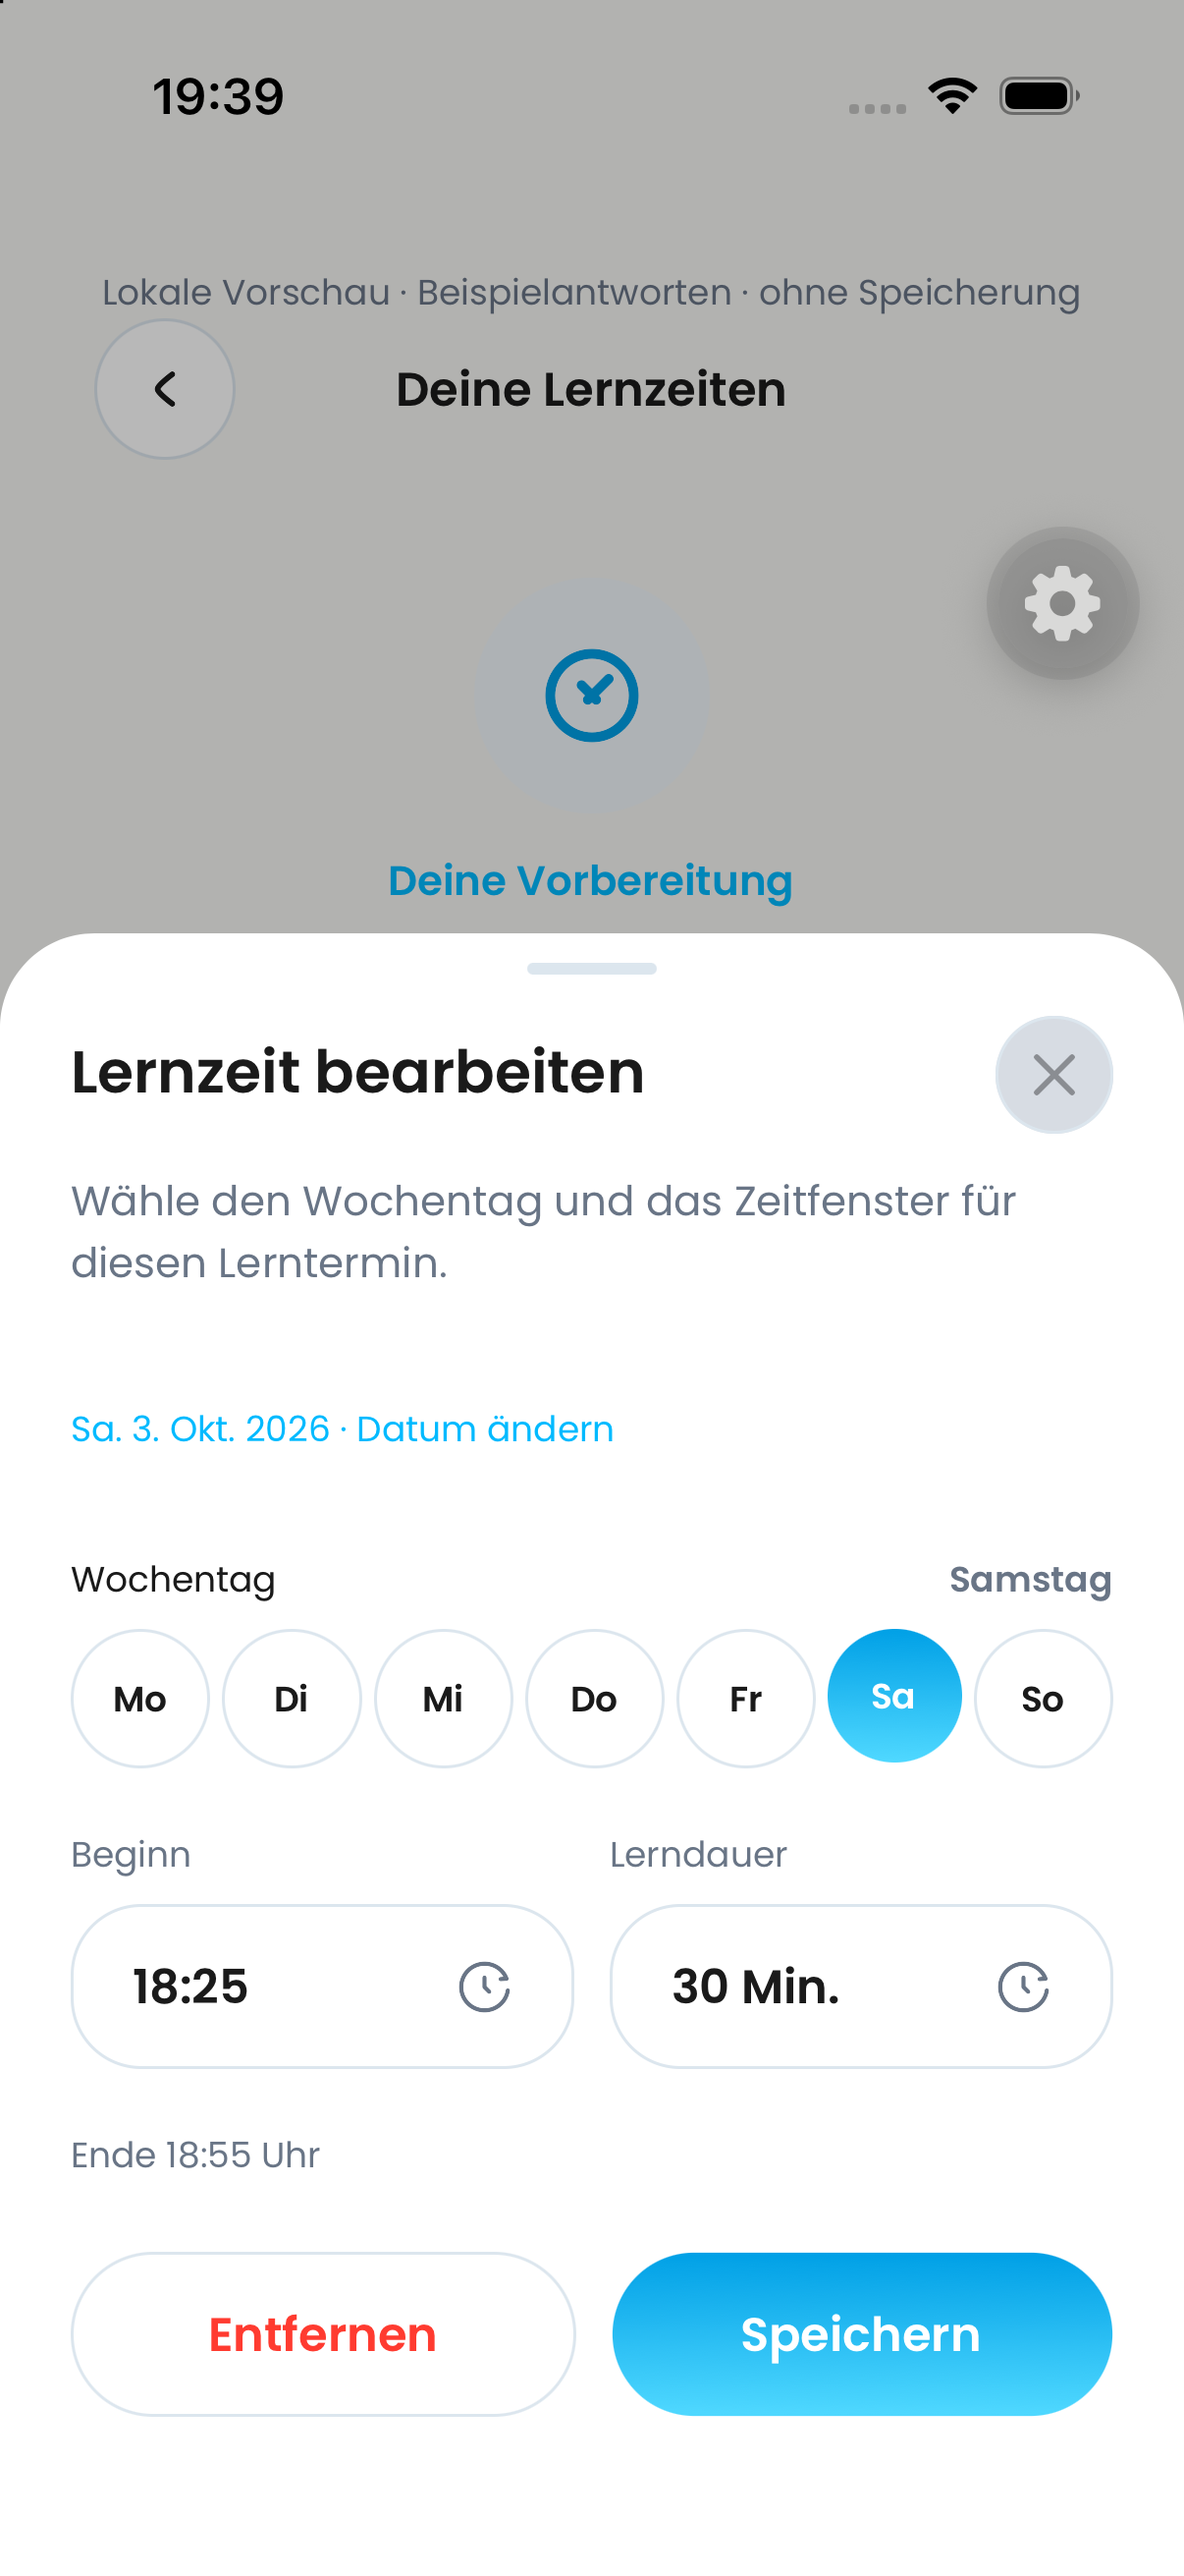
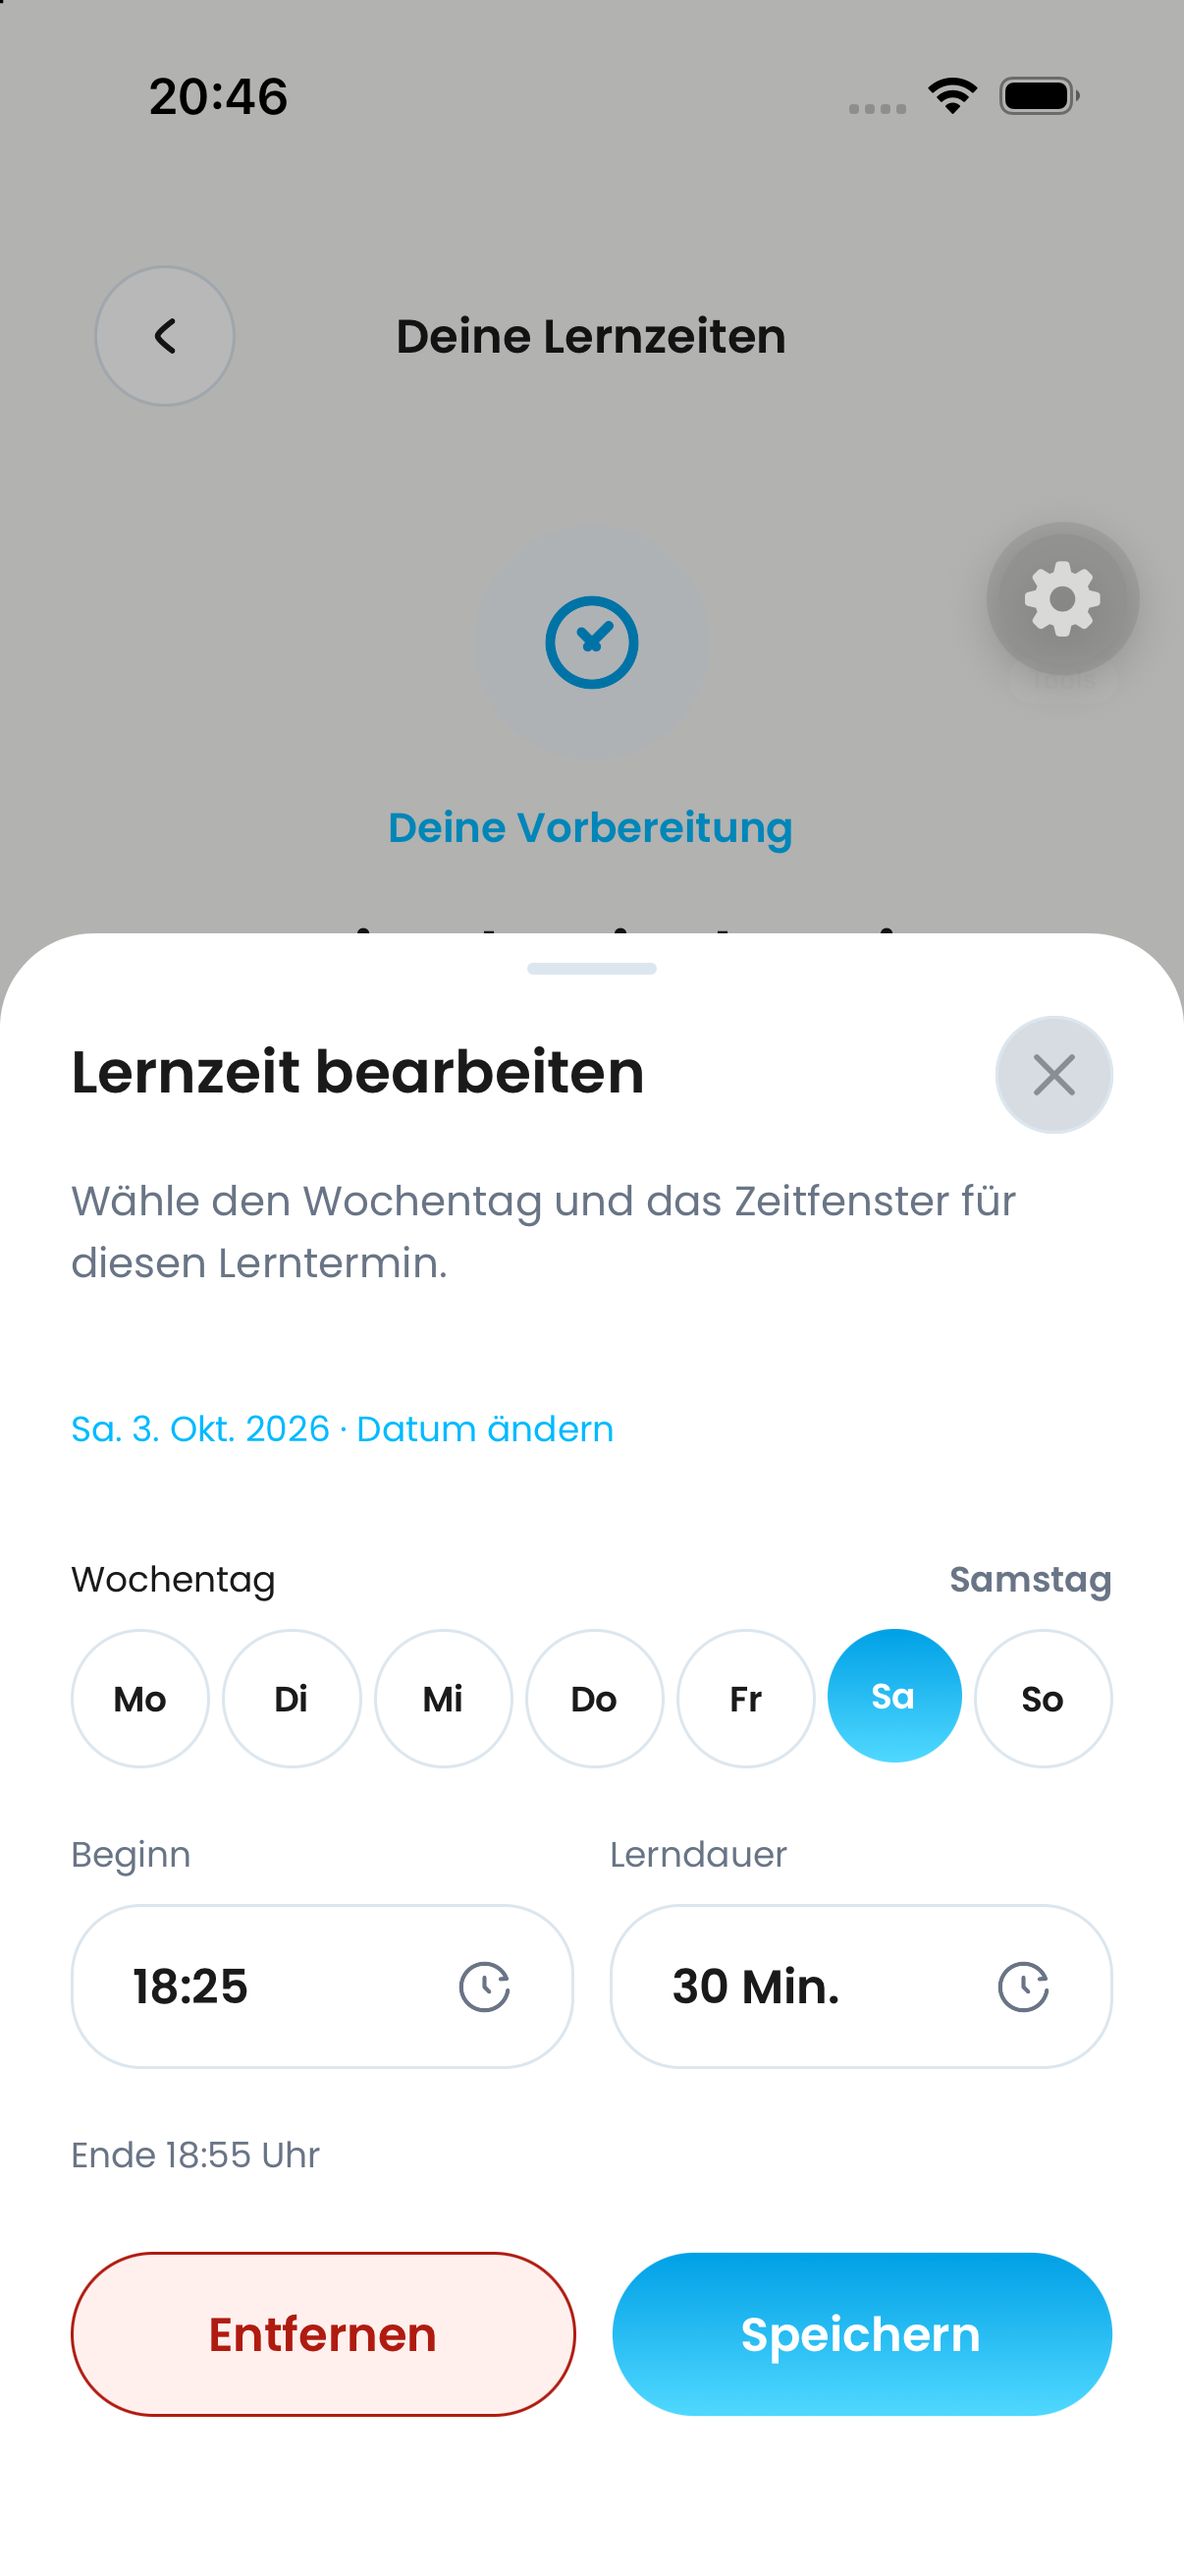
fix: match preparation remove action to subject delete styling

diff --git a/src/features/learning-plans/preparation-slot-editor.tsx b/src/features/learning-plans/preparation-slot-editor.tsx
@@ -78,16 +78,14 @@ export function PreparationSlotEditor({
 					<View className="gap-3">
 						<View className="flex-row gap-3">
 							<Button
-								variant="cancel"
+								variant={onRemove ? "destructive-outline" : "cancel"}
 								className="flex-1"
 								onPress={() => {
 									onRemove?.();
 									close();
 								}}
 							>
-								<Text className={onRemove ? "text-destructive" : undefined}>
-									{onRemove ? "Entfernen" : "Abbrechen"}
-								</Text>
+								<Text>{onRemove ? "Entfernen" : "Abbrechen"}</Text>
 							</Button>
 							<Button
 								className="flex-1"
